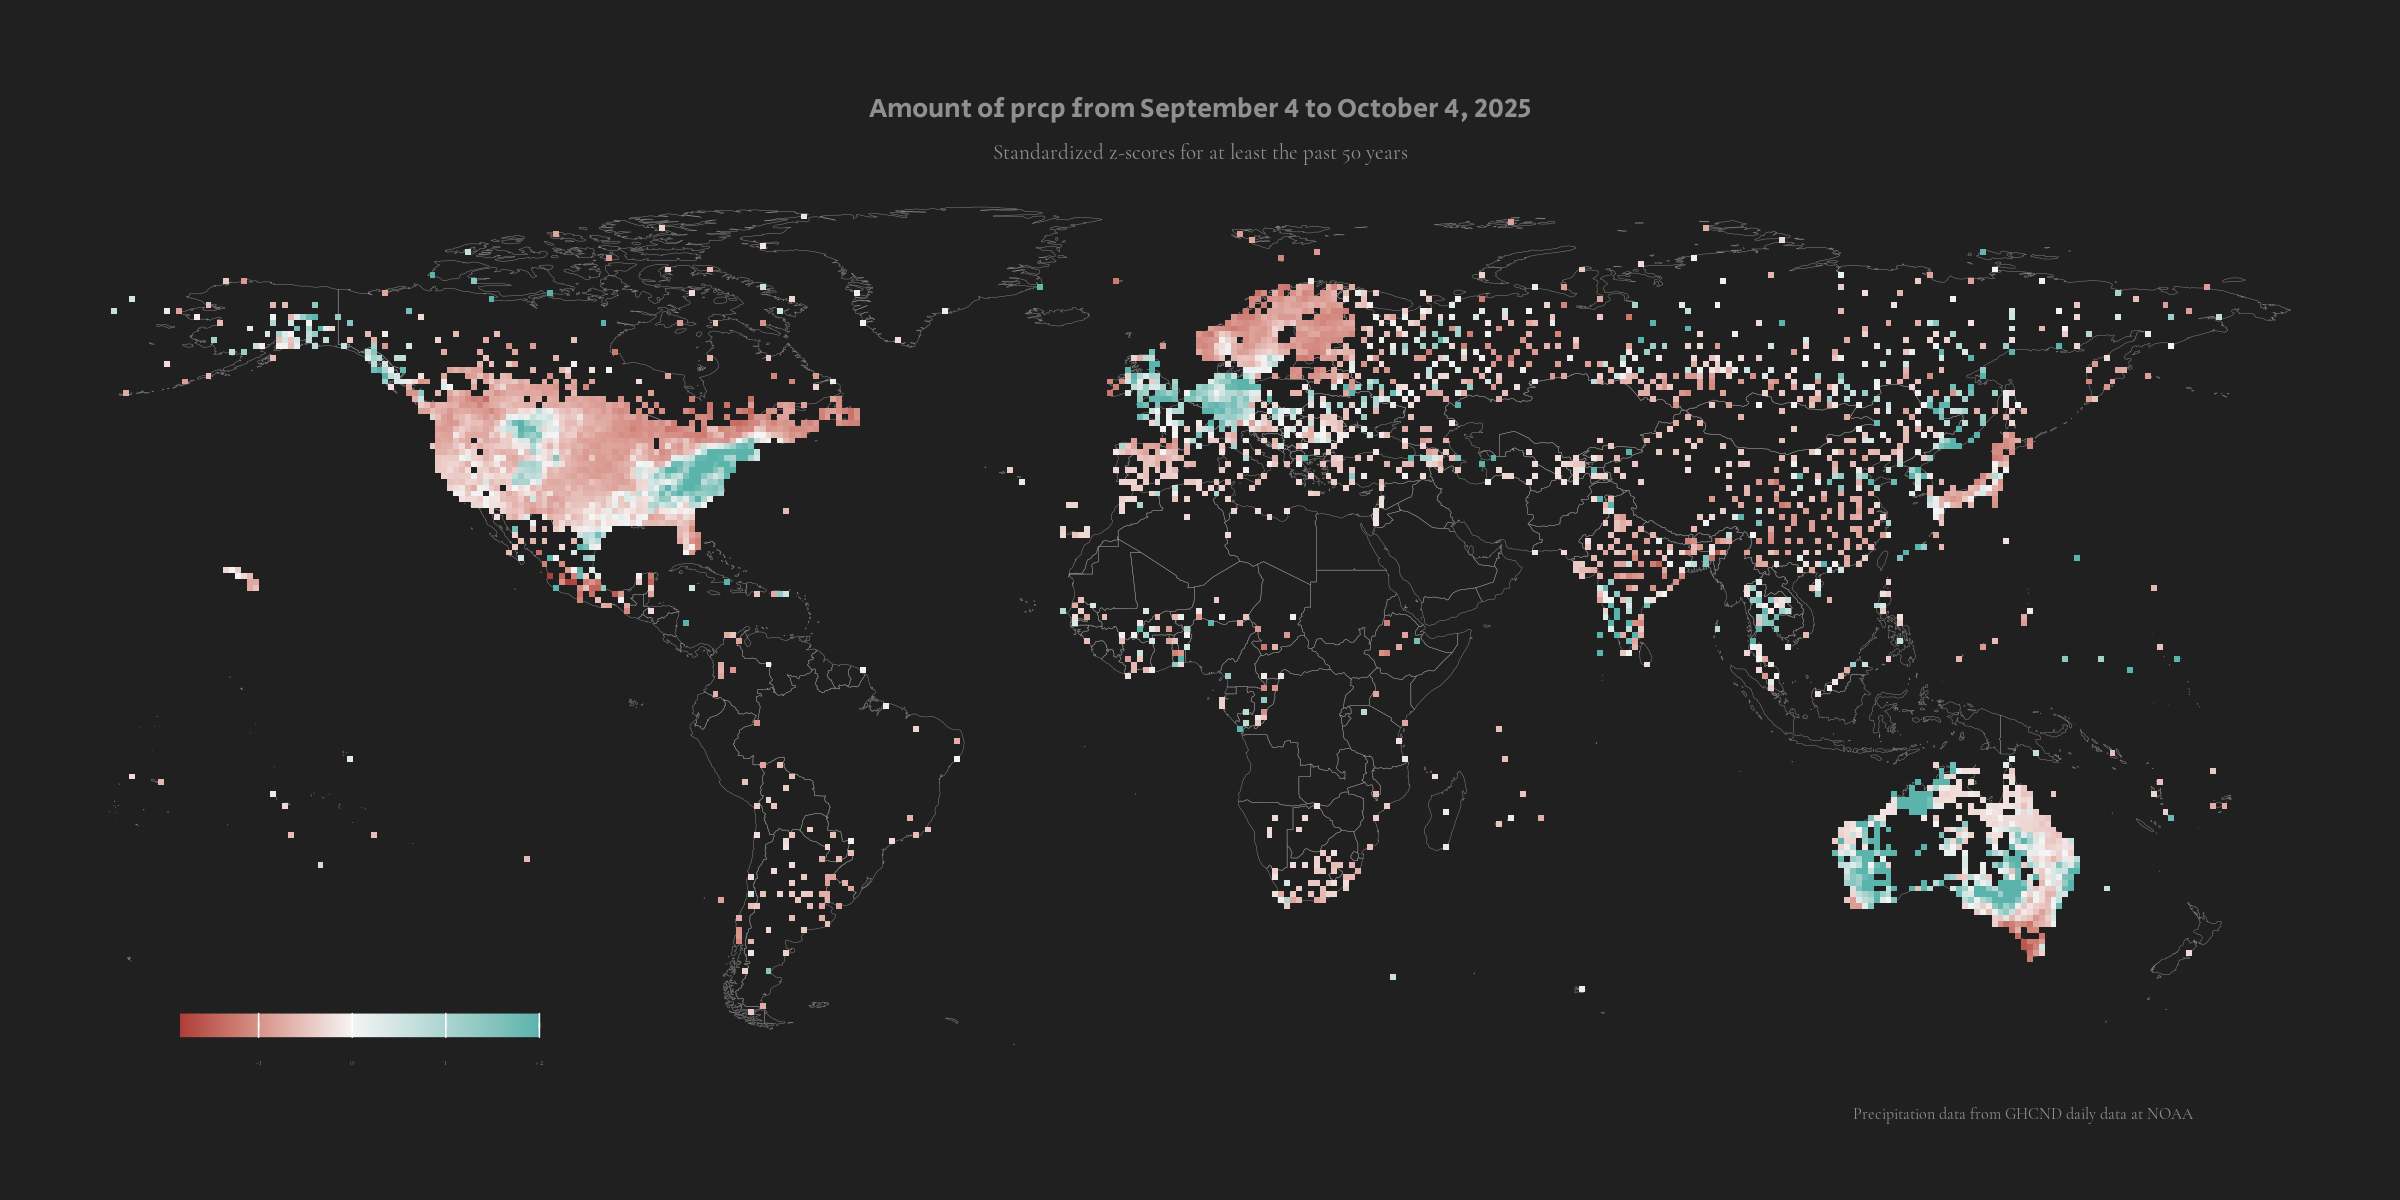
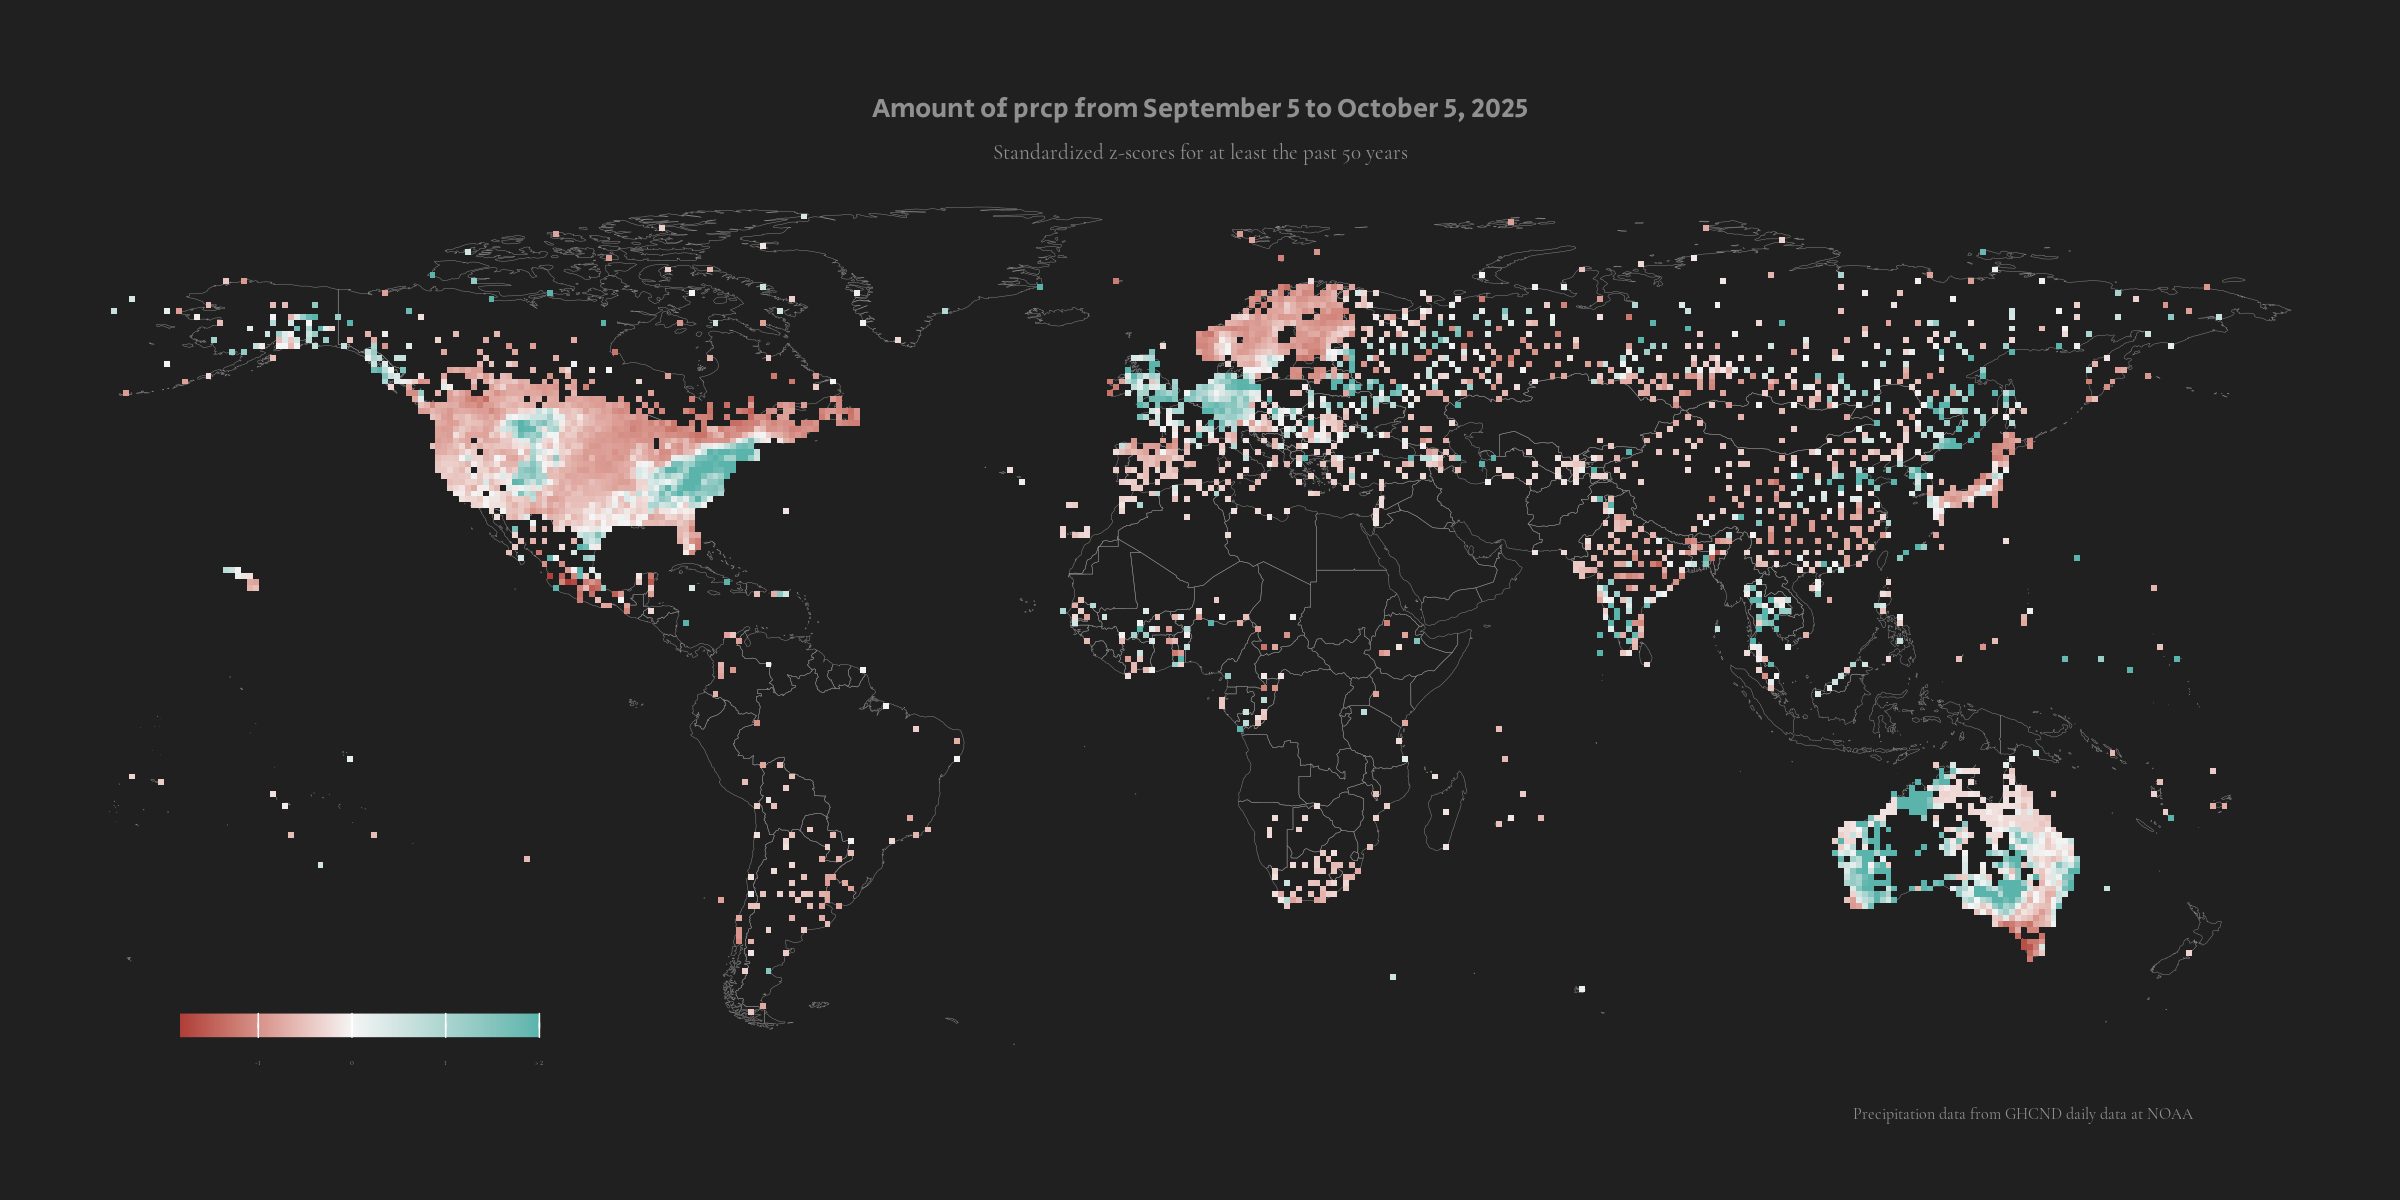
new day's rendering

diff --git a/index.html b/index.html
@@ -53,7 +53,7 @@ ul.task-list li input[type="checkbox"] {
 <div class="column-screen">
 <p><img src="visuals/heatmap_world_drought.png" class="img-fluid"></p>
 </div>
-<p>Last updated October 9, 2025.</p>
+<p>Last updated October 10, 2025.</p>
 <p>This <a href="https://esbenlykke.github.io/drought_index/">site</a> is part of a project to pratice reproducible research developed by <a href="mailto:%20eskovgaard@health.sdu.dk">Esben Lykke</a>.</p>
 
 </main>
